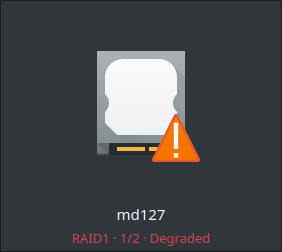
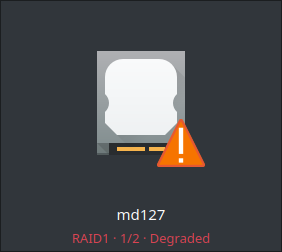
Shorten the sync ETA and shrink the state emblem
Two presentation problems the new README screenshots exposed.

Format.formatSpelloutDuration spells out every unit, producing "~12
minutes and 18 seconds left". The secondary sync line is already the
narrowest thing the widget draws, so at the default widget width that
elided away to nothing. formatDecimalDuration with no decimal places
gives "~12 minutes left", which stays localized and actually fits. The
message itself is unchanged, so the French catalog still applies.

The emblem was drawn at 45% of the drive icon's width, which covered
much of the icon it is meant to annotate. 38% still reads clearly at
panel sizes while leaving the drive recognisable.

Screenshots regenerated for both.

Releases 0.3.1.

Changed region(s): [[0.539, 0.4444, 0.7376, 0.6667]]

diff --git a/package/contents/ui/main.qml b/package/contents/ui/main.qml
@@ -84,9 +84,11 @@ PlasmoidItem {
                              "%1/s", KCoreAddons.Format.formatByteSize(kraidMonitor.syncSpeed * 1024)))
         }
         if (kraidMonitor.syncEtaSeconds >= 0) {
+            // formatSpelloutDuration spells out every unit ("12 minutes and 18
+            // seconds"), which elides away at the widget's default width.
             parts.push(i18nc("@info estimated time until the sync completes",
                              "~%1 left",
-                             KCoreAddons.Format.formatSpelloutDuration(kraidMonitor.syncEtaSeconds * 1000)))
+                             KCoreAddons.Format.formatDecimalDuration(kraidMonitor.syncEtaSeconds * 1000, 0)))
         }
         return parts.join(" · ")
     }

diff --git a/package/contents/ui/StatusIcon.qml b/package/contents/ui/StatusIcon.qml
@@ -15,7 +15,7 @@ Kirigami.Icon {
     fallback: "drive-harddisk"
 
     Kirigami.Icon {
-        width: Math.round(parent.width * 0.45)
+        width: Math.round(parent.width * 0.38)
         height: width
         anchors.right: parent.right
         anchors.bottom: parent.bottom

diff --git a/CHANGELOG.md b/CHANGELOG.md
@@ -5,84 +5,45 @@ All notable changes to this project will be documented in this file.
 The format is based on [Keep a Changelog](https://keepachangelog.com/en/1.1.0/),
 and this project adheres to [Semantic Versioning](https://semver.org/spec/v2.0.0.html).
 
-## [Unreleased]
+## [0.3.1] - 2026-09-20
 
 ### Added
 
-- Screenshots of the healthy, degraded and syncing states in the README, plus
-  `tools/shotgen/` which generates them by rendering the widget's own QML with a
-  stubbed data source, so they cannot drift from the real interface and no array
-  has to be broken to picture one.
+- README screenshots of the OK, degraded and syncing states, generated by `tools/shotgen/`.
+
+### Changed
+
+- Sync ETA is now compact (`~12 minutes left`) instead of being elided away.
+- State emblem reduced from 45% to 38% of the drive icon.
 
 ## [0.3] - 2026-09-20
 
 ### Added
 
-- A panel-friendly compact representation: in a panel the widget is now a single
-  status icon that opens the detailed view when clicked, instead of stretching
-  the desktop layout into a shape it was never designed for.
-- A tooltip listing the array's level, disk count and state, the sync progress
-  when one is running, and every member device with its own state — so a failed
-  disk can be identified without opening a terminal.
-- A French translation, plus `Messages.sh` and a `po/` tree so further languages
-  can be added. The `i18n()` calls already present in the config pages were
-  equally untranslated before, because the project shipped no catalog at all.
-- An array picker in the configuration dialog. `selectedArray` was declared in
-  `main.xml` but no UI ever exposed it.
-- Show the array's RAID level and its active/total disk count next to the status,
-  so the desktop face reads `md127` / `RAID1 · 2/2 · OK` instead of `md127: OK`.
-- Show a progress bar, transfer rate and ETA while an array is syncing, read from
-  `sync_completed` and `sync_speed`. Rate and ETA are formatted with
-  `KCoreAddons.Format`, so they follow the desktop locale; this adds a dependency
-  on `qml6-module-org-kde-coreaddons`.
-- Colour the status line from the array state, using the theme's positive,
-  neutral and negative text colours rather than fixed values.
+- Compact representation, so the widget works in a panel.
+- Tooltip listing each member disk and its state.
+- RAID level and active/total disk count on the widget face.
+- Progress bar, transfer rate and ETA while an array is syncing.
+- Status text coloured from the array state.
+- French translation, plus `Messages.sh` and `po/`.
+- Array picker in the configuration dialog.
 
 ### Changed
 
-- All visible strings are now built in QML and passed through `i18n()`. The
-  plugin no longer exposes a `status` display string; it reports the `state` enum
-  and the raw `array_state` behind it, so nothing user-visible is hardcoded
-  English in C++ any more.
-- The configured array is read back on load instead of always taking the first
-  array found. A configured array that is currently absent falls back to the
-  first one without overwriting the setting.
-- Replaced the plugin's `icon` property with a `state` enum
-  (`NoArray`/`Ok`/`Syncing`/`Degraded`/`Error`). The QML picks the icon, emblem
-  and colour from the enum, so the view no longer keys off English status text.
-- The plugin now emits a property's change signal only when the value actually
-  changed, instead of signalling on every timer tick.
-- Document both plasmoidviewer invocations in the README: a source-tree path to
-  test uncommitted changes, and the plugin id to test the installed copy.
+- The plugin reports a `state` enum instead of an icon name, and all visible strings are built in QML through `i18n()`.
+- The configured array is read back on load instead of always using the first one found.
+- Property change signals are emitted only when the value changes, not on every tick.
+- New dependency: `qml6-module-org-kde-coreaddons`.
+- README documents both `plasmoidviewer` invocations.
 
 ### Fixed
 
-- Show a usable icon when the array is not healthy. The widget asked for
-  `drive-harddisk-updating`, `-warning` and `-error`, none of which exist in
-  Breeze, so it rendered correctly only while the array was OK and showed nothing
-  at all once it degraded. A `drive-harddisk` base icon now carries an
-  `emblem-ok-symbolic`, `emblem-synchronizing-symbolic`, `emblem-warning` or
-  `emblem-error` overlay.
-- Report a rebuilding array as Syncing. `sync_action` was matched against
-  `check`, `repair` and `resync` only, so `recover` — the value md uses while
-  rebuilding onto a replacement disk — fell through to the error branch.
-- Report an array with a failed member as Degraded. The check required
-  `array_state` to read `degraded`, but a real array with a dead disk reports
-  `clean` and records the failure in `degraded`, so a lost disk displayed as OK.
-- Apply the configured icon size. The icon set `width`/`height` while being a
-  child of a `ColumnLayout`, which owns that geometry, so the size was silently
-  discarded; the icon now scales with the widget.
-- Include the compiled translations in the `.deb`. `build-deb.sh` stages files by
-  hand rather than running `make install`, so it would have shipped the catalogs
-  nowhere while a source install placed them correctly.
-- Install the packaged files world-readable. `build-deb.sh` copied the plugin and
-  the plasmoid package with `cp`, which preserves the working tree's modes, so a
-  non-readable source tree produced a `.deb` whose `contents/` directory and
-  `qmldir` were unreadable by the running user. Plasma then reported the widget as
-  non-existent ("le paquet org.kde.plasma.kraidmonitor n'existe pas") and QML
-  reported `module "org.kde.plasma.private.kraidmonitor" is not installed`. The
-  plugin library and `qmldir` are now placed with explicit modes via `install`, and
-  the whole staging tree is normalized to 755/644 before packaging.
+- No icon was shown unless the array was healthy: Breeze has no `drive-harddisk-updating`, `-warning` or `-error`. An emblem is now overlaid on `drive-harddisk`.
+- A rebuilding array was reported as an error, because `sync_action = recover` was not matched.
+- An array with a failed member was reported as OK, because only `array_state = degraded` was checked and a real one reports `clean`.
+- The configured icon size was discarded by the layout.
+- Compiled translations were missing from the `.deb`.
+- Packaged files are installed world-readable.
 
 ## [0.2] - 2026-01-24
 
@@ -111,6 +72,7 @@ Initial release, for Plasma 5.
   detection of the available arrays.
 - Status icon reflecting the array state, and a configurable update interval.
 
-[Unreleased]: https://github.com/hleroy/plasma-kraidmonitor/compare/v0.2...HEAD
+[0.3.1]: https://github.com/hleroy/plasma-kraidmonitor/compare/v0.3...v0.3.1
+[0.3]: https://github.com/hleroy/plasma-kraidmonitor/compare/v0.2...v0.3
 [0.2]: https://github.com/hleroy/plasma-kraidmonitor/compare/216580b...v0.2
 [0.1]: https://github.com/hleroy/plasma-kraidmonitor/commit/216580b

diff --git a/CLAUDE.md b/CLAUDE.md
@@ -162,6 +162,14 @@ msgmerge -U po/fr/plasma_applet_org.kde.plasma.kraidmonitor.po \
 Note `ki18n_install` silently does nothing when `po/` is missing, so a broken
 catalog path fails by shipping English rather than by failing the build.
 
+## Changelog and release notes
+
+Keep entries to **one line each**: what changed, plus a short clause of why only
+when it is not self-evident. No paragraphs, no narrating the investigation, no
+restating what the diff already shows. The `[0.3]` section is the reference for
+the intended density — if an entry wraps past two lines, it is too long. The same
+applies to GitHub release notes.
+
 ## Packaging
 
 `package/metadata.json`'s `KPlugin.Version` is the single source of truth for the
